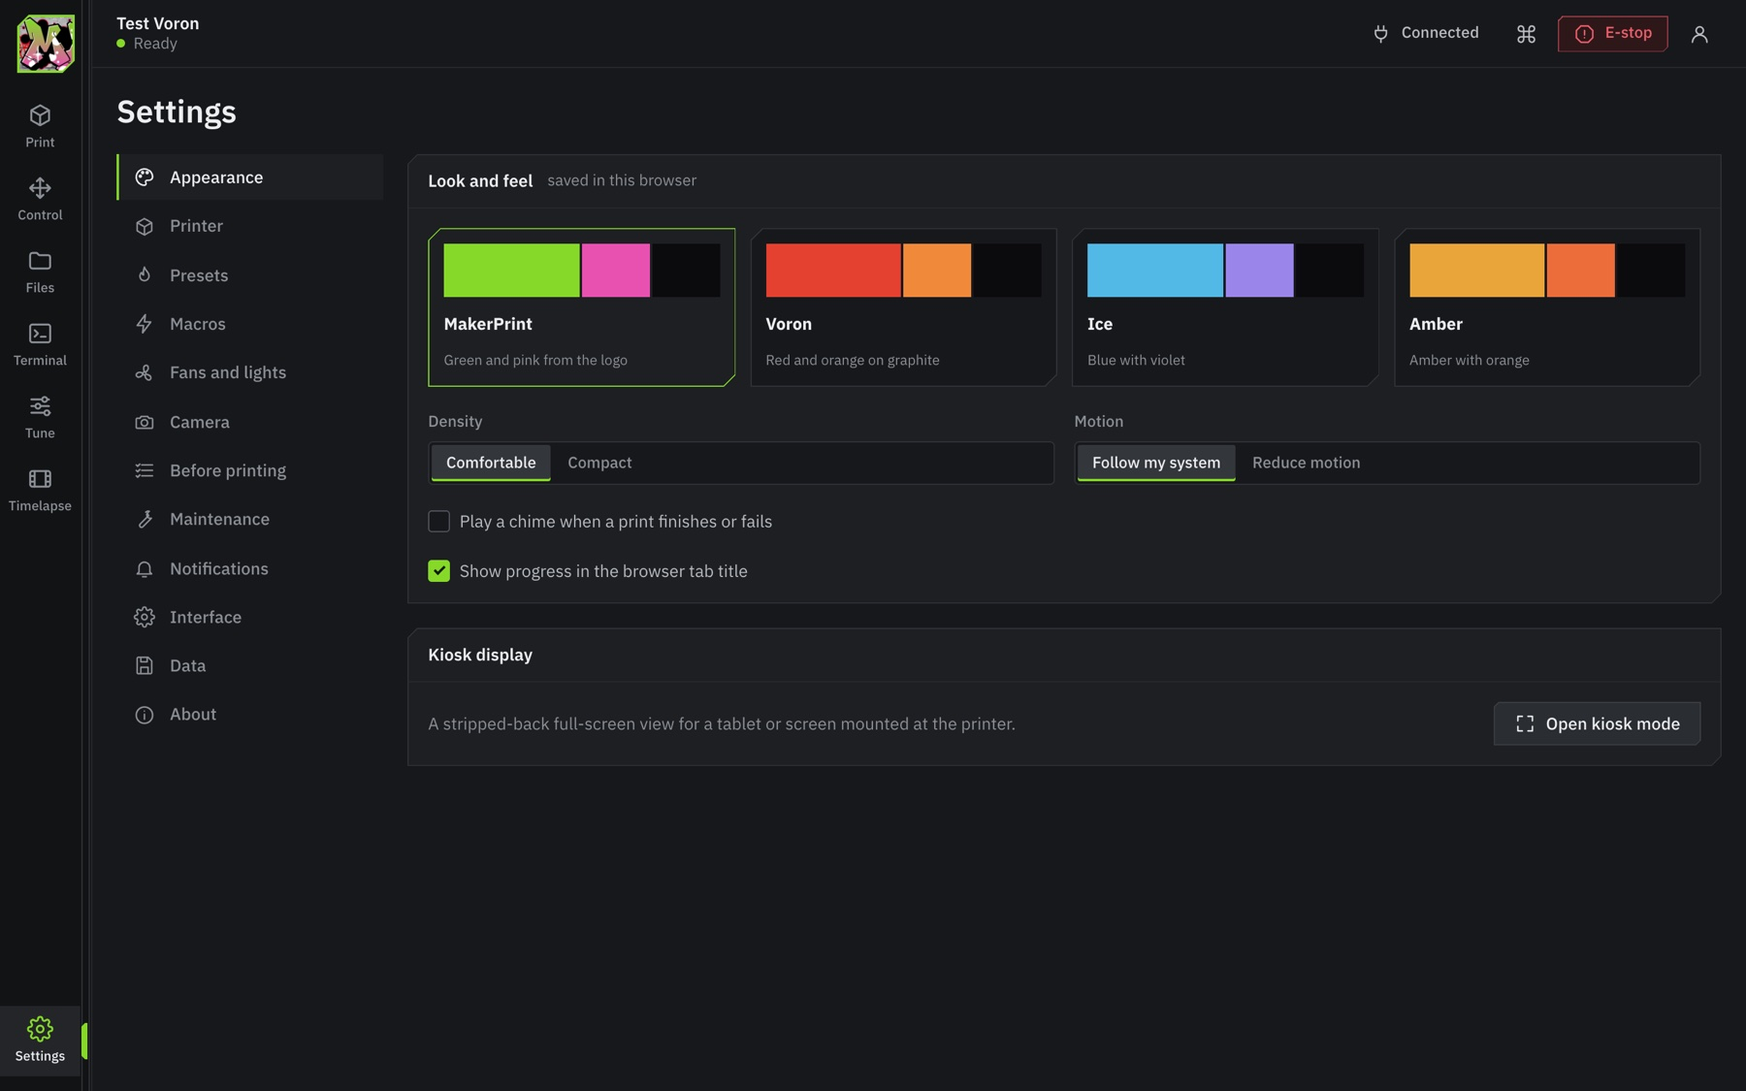
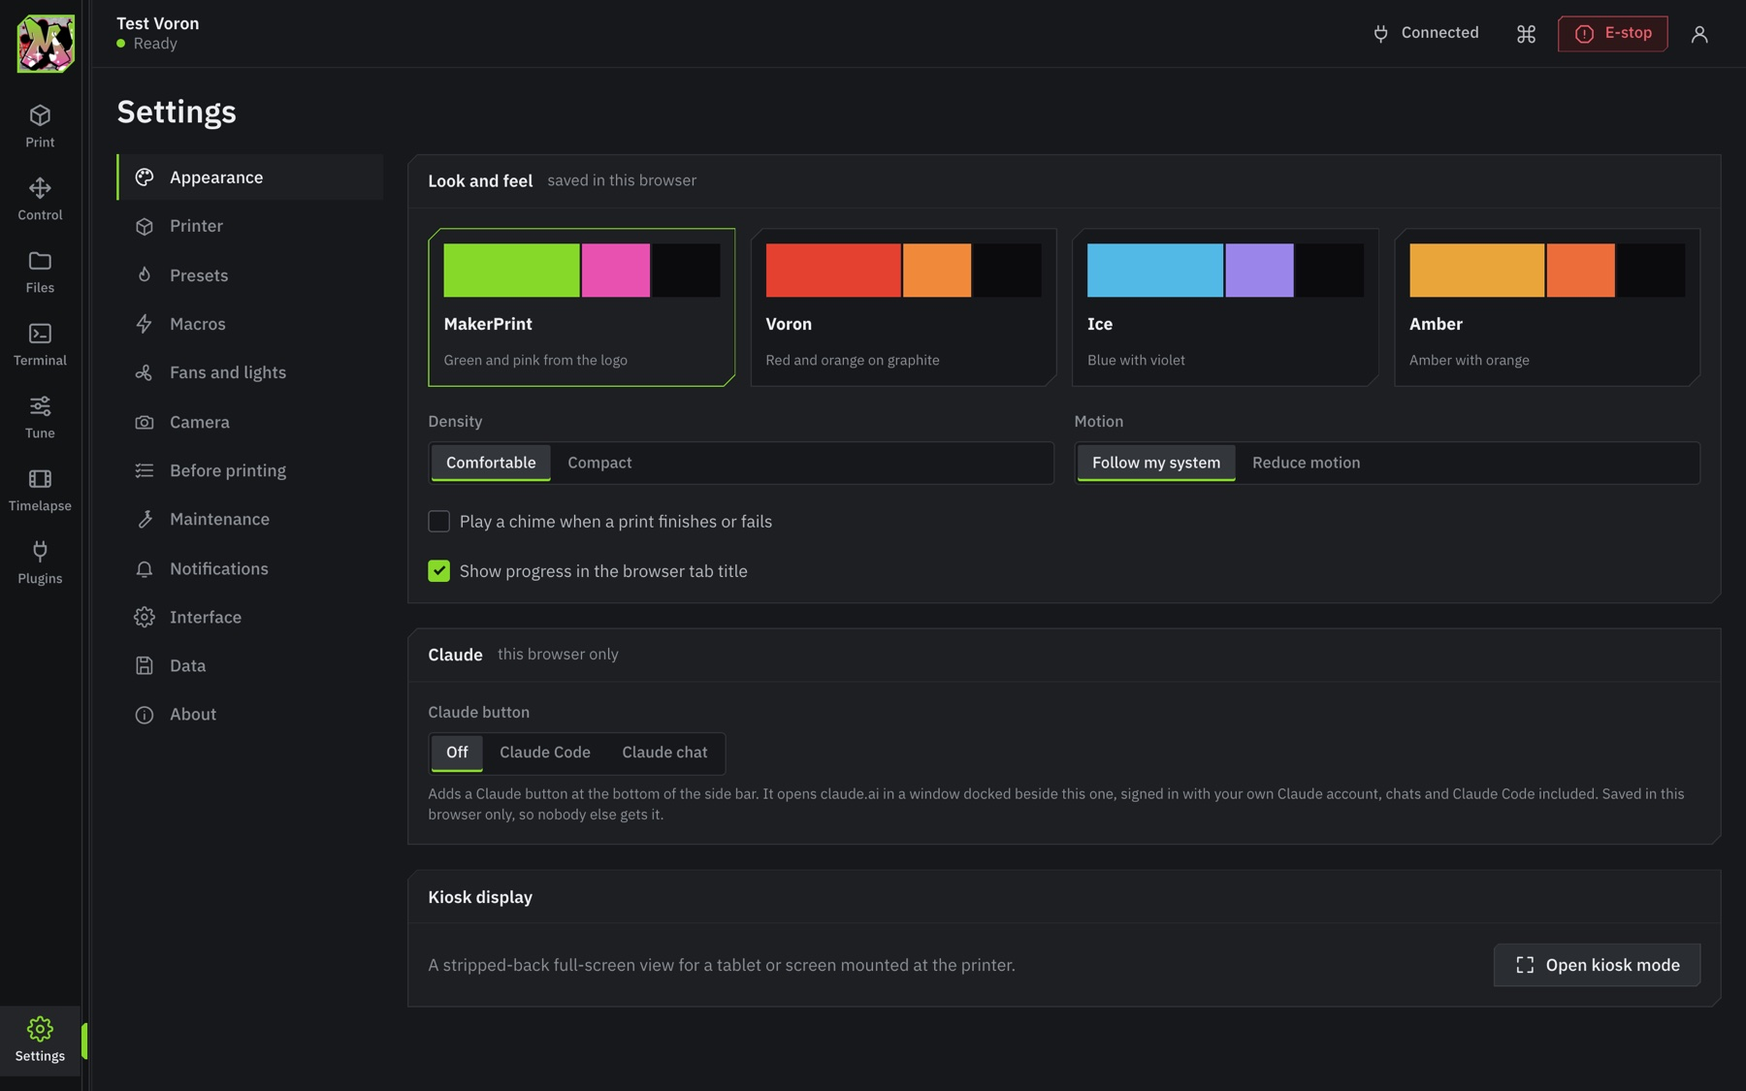
0.3.0: Plugins screen, optional Claude button
Plugins
- A Plugins screen with OctoPrint's Plugin Manager, Software Update, all of
  OctoPrint's settings, and every installed plugin's own tabs, sidebar
  panels and settings pages
- They run in OctoPrint's classic page inside a same-origin frame, with only
  the chosen part shown, so third-party plugins work exactly as they do in
  the classic interface (dialogs, re-authentication and all)
- Panels and tabs a plugin is currently hiding are left out of the list

Claude button
- Settings > Appearance > Claude button: off by default and stored per
  browser. When on, a button above Settings opens claude.ai (Claude Code or
  chat) in a window docked to the right, using the browser's own sign-in.
  claude.ai forbids framing, so it can't be shown inside the page itself.

diff --git a/octoprint_makerforge/static/js/core/classic-frame.js b/octoprint_makerforge/static/js/core/classic-frame.js
@@ -1,0 +1,134 @@
+// OctoPrint's classic page, running in a frame, so every plugin's own screens work exactly as
+// they do there: same code, same settings, same dialogs. MakerPrint picks the part to show
+// (a plugin's tab, its sidebar panel or a settings page) and hides the rest with a stylesheet
+// it adds to the frame. The frame is same-origin, so this needs no cooperation from plugins.
+import { BASE } from "mf/core/api.js";
+
+// Core tabs MakerPrint already has its own screens for. Everything else is a plugin's.
+const CORE_TABS = new Set(["temp", "control", "term", "timelapse"]);
+
+const CROP_CSS = `
+html.mf-embed body { padding: 0 !important; }
+html.mf-embed #page-container-loading { display: none !important; }
+html.mf-embed:not([data-mf-mode="classic"]) #navbar,
+html.mf-embed:not([data-mf-mode="classic"]) .footer { display: none !important; }
+html.mf-embed:not([data-mf-mode="classic"]) .octoprint-container { width: auto !important; max-width: none !important; margin: 0 !important; padding: 16px !important; }
+html.mf-embed:not([data-mf-mode="classic"]) .octoprint-container > .row { margin-left: 0 !important; }
+
+/* a plugin's tab, on its own */
+html.mf-embed[data-mf-mode="tab"] #sidebar,
+html.mf-embed[data-mf-mode="tab"] #tabs { display: none !important; }
+html.mf-embed[data-mf-mode="tab"] .octoprint-container .tabbable { width: 100% !important; margin-left: 0 !important; float: none !important; }
+html.mf-embed[data-mf-mode="tab"] .tab-content { border: 0 !important; padding: 0 !important; }
+
+/* one sidebar panel, full width and open */
+html.mf-embed[data-mf-mode="panel"] .octoprint-container .tabbable { display: none !important; }
+html.mf-embed[data-mf-mode="panel"] #sidebar { width: 100% !important; margin-left: 0 !important; float: none !important; }
+html.mf-embed[data-mf-mode="panel"] #sidebar > .accordion-group:not(.mf-show) { display: none !important; }
+
+/* settings: the dialog becomes the page */
+html.mf-embed[data-mf-mode="settings"] .octoprint-container { visibility: hidden !important; }
+html.mf-embed[data-mf-mode="settings"] #settings_dialog { top: 0 !important; left: 0 !important; right: 0 !important; bottom: 0 !important; width: auto !important; max-width: none !important; margin: 0 !important; border: 0 !important; border-radius: 0 !important; }
+html.mf-embed[data-mf-mode="settings"] #settings_dialog .modal-body { max-height: none !important; height: calc(100vh - 118px) !important; }
+html.mf-embed[data-mf-mode="settings"] #settings_dialog .modal-header .close,
+html.mf-embed[data-mf-mode="settings"] #settings_dialog .modal-footer [data-dismiss="modal"] { display: none !important; }
+html.mf-embed[data-mf-mode="settings"] .modal-backdrop { opacity: 1 !important; }
+/* one plugin's settings: MakerPrint lists them, so the dialog's own menu would repeat it */
+html.mf-embed[data-mf-mode="settings"]:not([data-mf-full]) #settings_dialog_menu { display: none !important; }
+html.mf-embed[data-mf-mode="settings"]:not([data-mf-full]) #settings_dialog_content { width: 100% !important; margin-left: 0 !important; }
+`;
+
+const textOf = (el) => (el?.textContent || "").replace(/\s+/g, " ").trim();
+// plugins hide their own tabs and panels when they have nothing to show (a firmware warning
+// that hasn't happened, say), and an empty page helps nobody
+const shown = (el, win) => !!el && win.getComputedStyle(el).display !== "none";
+
+/**
+ * Load the classic page into `host`. Resolves {win, doc} once OctoPrint's classic interface has
+ * finished starting, or rejects after `timeoutMs`.
+ */
+export function createClassicFrame(host, { timeoutMs = 90000 } = {}) {
+  const frame = document.createElement("iframe");
+  frame.className = "classic-frame";
+  frame.title = "OctoPrint plugin page";
+  frame.src = `${BASE}/?classic&mfembed=1`;
+  host.append(frame);
+
+  let win = null, doc = null, pane = null, alive = true;
+
+  const ready = new Promise((resolve, reject) => {
+    const t0 = Date.now();
+    const poll = () => {
+      if (!alive) return;
+      try {
+        win = frame.contentWindow;
+        doc = frame.contentDocument;
+        if (win?.OctoPrint?.coreui?.startedUp && doc?.head) {
+          prepare();
+          resolve({ win, doc });
+          return;
+        }
+      } catch (e) { return reject(e); }
+      if (Date.now() - t0 > timeoutMs) return reject(new Error("OctoPrint's classic page didn't finish starting."));
+      setTimeout(poll, 300);
+    };
+    frame.addEventListener("load", poll);
+  });
+
+  function prepare() {
+    if (doc.getElementById("mf-embed-css")) return;
+    const style = doc.createElement("style");
+    style.id = "mf-embed-css";
+    style.textContent = CROP_CSS;
+    doc.head.append(style);
+    doc.documentElement.classList.add("mf-embed");
+    // In "settings" mode the dialog is the page: saving closes it, so open it again
+    win.$?.("#settings_dialog").on("hidden", () => {
+      if (alive && doc.documentElement.dataset.mfMode === "settings" && pane) setTimeout(() => openSettings(pane), 250);
+    });
+  }
+
+  function settingsVM() { return win.OctoPrint.coreui.viewmodels.settingsViewModel; }
+  function openSettings(id) { try { settingsVM().show(id); } catch { /* not allowed for this user */ } }
+
+  /** What plugins added to the classic page: their tabs, sidebar panels and settings pages. */
+  function parts() {
+    const q = (s) => Array.from(doc.querySelectorAll(s));
+    const tabs = q("#tabs a[href^='#']")
+      .map((a) => ({ kind: "tab", id: a.getAttribute("href").slice(1), name: textOf(a) }))
+      .filter((t) => t.id && t.name && !CORE_TABS.has(t.id) && doc.getElementById(t.id) && shown(doc.querySelector(`#tabs a[href="#${t.id}"]`)?.closest("li"), win));
+    const panels = q("#sidebar > .accordion-group[id^='sidebar_plugin_']")
+      .filter((g) => shown(g, win))
+      .map((g) => ({ kind: "panel", id: g.id, name: textOf(g.querySelector(".accordion-heading")) || g.id.replace(/^sidebar_plugin_|_wrapper$/g, "") }));
+    const settings = q("#settings_dialog_menu a[href^='#settings_plugin_']")
+      .map((a) => ({ kind: "settings", id: a.getAttribute("href").slice(1), name: textOf(a) }))
+      .filter((s) => s.name);
+    const firstSettings = doc.querySelector("#settings_dialog_menu a[href^='#settings_']")?.getAttribute("href")?.slice(1) || null;
+    return { tabs, panels, settings, firstSettings };
+  }
+
+  /** Show one part: {kind: "tab"|"panel"|"settings"|"classic", id}. */
+  function show(part) {
+    const html = doc.documentElement;
+    const wasSettings = html.dataset.mfMode === "settings";
+    html.dataset.mfMode = part.kind;
+    if (part.full) html.dataset.mfFull = "1"; else delete html.dataset.mfFull;
+    pane = part.kind === "settings" ? part.id : null;
+    if (wasSettings && part.kind !== "settings") win.$("#settings_dialog").modal("hide");
+    if (part.kind === "tab") win.$(`#tabs a[href="#${part.id}"]`).tab("show");
+    if (part.kind === "panel") {
+      for (const g of doc.querySelectorAll("#sidebar > .accordion-group")) g.classList.toggle("mf-show", g.id === part.id);
+      win.$(`#${part.id} .accordion-body`).collapse("show");
+    }
+    if (part.kind === "settings") openSettings(part.id);
+    win.scrollTo(0, 0);
+  }
+
+  return {
+    frame,
+    ready,
+    parts,
+    show,
+    destroy() { alive = false; frame.remove(); },
+  };
+}

diff --git a/octoprint_makerforge/static/js/views/plugins.js b/octoprint_makerforge/static/js/views/plugins.js
@@ -1,0 +1,84 @@
+// Plugins: OctoPrint's Plugin Manager, and every plugin's own tabs, panels and settings, shown
+// by OctoPrint's classic page in a frame so they all work exactly as they do there.
+import { html, raw, refs, esc } from "mf/core/dom.js";
+import { icon } from "mf/ui/icons.js";
+import { boot } from "mf/core/api.js";
+import { can } from "mf/core/auth.js";
+import * as router from "mf/core/router.js";
+import { createClassicFrame } from "mf/core/classic-frame.js";
+
+const MANAGER = { kind: "settings", id: "settings_plugin_pluginmanager", name: "Plugin Manager" };
+const UPDATES = { kind: "settings", id: "settings_plugin_softwareupdate", name: "Software Update" };
+const EVERYTHING = { kind: "classic", id: "all", name: "Classic OctoPrint" };
+
+const key = (p) => `${p.kind}/${p.id}`;
+
+export default {
+  id: "plugins",
+  mount(el, { route }) {
+    const view = html`
+      <div>
+        <div class="view-head"><h1>Plugins</h1></div>
+        <div class="set-layout plugins-layout">
+          <nav class="set-nav" data-ref="nav" aria-label="Plugin pages"><span class="muted plug-wait">Loading plugin pages…</span></nav>
+          <section class="panel plug-frame-panel">
+            <div class="plug-frame" data-ref="host">
+              <div class="plug-state" data-ref="state">${raw(icon("refresh", "i spin"))}<span>Starting OctoPrint's plugin pages. On a Raspberry Pi this takes a few seconds.</span></div>
+            </div>
+          </section>
+        </div>
+      </div>`;
+    const r = refs(view);
+    el.append(view);
+
+    if (!can("settings_read") && !can("admin")) {
+      r.state.innerHTML = `${icon("lock")}<span>Your account can't see OctoPrint's plugin pages.</span>`;
+      r.nav.replaceChildren();
+      return {};
+    }
+
+    const cf = createClassicFrame(r.host);
+    let items = [];
+    let current = null;
+
+    function pick(rest) {
+      const wanted = rest?.length ? `${rest[0]}/${rest.slice(1).join("/")}` : key(MANAGER);
+      return items.find((p) => key(p) === wanted) || items.find((p) => key(p) === key(MANAGER)) || items[0];
+    }
+
+    function select(part) {
+      if (!part) return;
+      current = part;
+      r.nav.querySelectorAll("a[data-key]").forEach((a) => (a.dataset.key === key(part) ? a.setAttribute("aria-current", "page") : a.removeAttribute("aria-current")));
+      cf.show(part);
+      window.scrollTo(0, 0);   // the frame should stay in view whatever was clicked
+    }
+
+    cf.ready.then(() => {
+      const found = cf.parts();
+      const hasUpdates = found.settings.some((s) => s.id === UPDATES.id);
+      const pluginSettings = found.settings.filter((s) => s.id !== MANAGER.id && s.id !== UPDATES.id && s.id !== "settings_plugin_makerforge");
+      const groups = [
+        ["Manage", [MANAGER, ...(hasUpdates ? [UPDATES] : []), ...(found.firstSettings ? [{ kind: "settings", id: found.firstSettings, name: "All OctoPrint settings", full: true }] : [])]],
+        ["Plugin pages", found.tabs],
+        ["Plugin panels", found.panels],
+        ["Plugin settings", pluginSettings],
+        ["Everything", [EVERYTHING]],
+      ].filter(([, list]) => list.length);
+      items = groups.flatMap(([, list]) => list);
+      r.nav.innerHTML = groups.map(([title, list]) => `<div class="plug-group">${esc(title)}</div>` +
+        list.map((p) => `<a href="${router.href("plugins", [p.kind, p.id])}" data-key="${esc(key(p))}">${esc(p.name)}</a>`).join("")).join("");
+      r.state.remove();
+      cf.frame.classList.add("is-ready");
+      select(pick(route.rest));
+    }).catch((e) => {
+      r.state.innerHTML = `${icon("alert")}<span>${esc(e.message || "OctoPrint's classic page didn't load.")} <a class="link" href="${esc(boot.classicUrl)}" target="_blank" rel="noopener">Open it directly</a></span>`;
+      r.nav.replaceChildren();
+    });
+
+    return {
+      onRoute(rt) { if (items.length) select(pick(rt.rest)); },
+      unmount() { cf.destroy(); },
+    };
+  },
+};

diff --git a/octoprint_makerforge/static/js/ui/shell.js b/octoprint_makerforge/static/js/ui/shell.js
@@ -13,6 +13,7 @@ import { signOut, can } from "mf/core/auth.js";
 import { config } from "mf/core/config.js";
 import { duration, num } from "mf/core/format.js";
 import { openConnect } from "mf/ui/connect.js";
+import { openClaude, claudeEnabled } from "mf/ui/claude.js";
 
 export const NAV = [
   { id: "print", label: "Print", icon: "cube" },
@@ -21,6 +22,7 @@ export const NAV = [
   { id: "terminal", label: "Terminal", icon: "terminal" },
   { id: "tune", label: "Tune", icon: "tune" },
   { id: "timelapse", label: "Timelapse", icon: "film" },
+  { id: "plugins", label: "Plugins", icon: "plugin" },
 ];
 const MOBILE_MAIN = ["print", "control", "files", "terminal"];
 
@@ -39,6 +41,7 @@ export function mountShell(root) {
           ${raw(NAV.map(linkHtml).join(""))}
         </nav>
         <div class="rail-foot">
+          <button class="rail-link rail-claude" data-ref="claude" aria-label="Open Claude" data-tip="Open Claude in a side window" hidden>${raw(icon("spark"))}<span>Claude</span></button>
           <a class="rail-link" href="#/settings" data-id="settings" aria-label="Settings">${raw(icon("settings"))}<span>Settings</span></a>
         </div>
       </aside>
@@ -179,12 +182,16 @@ export function mountShell(root) {
   r.netact.addEventListener("click", () => (store.get("klipper.detected") ? actions.firmwareRestart().catch(() => {}) : router.go("terminal")));
   r.user.addEventListener("click", () => userMenu(r.user));
   r.more.addEventListener("click", () => moreMenu(r.more));
+  r.claude.addEventListener("click", () => openClaude(prefs.get("claude")));
+  const syncClaude = () => { r.claude.hidden = !claudeEnabled(prefs.get("claude")); };
+  const offPrefs = prefs.on((k) => { if (k === "claude" || k === "*") syncClaude(); });
+  syncClaude();
 
   return {
     stage: el.querySelector("#stage"),
     el,
     markActive,
-    dispose() { offRoute(); offs.forEach((o) => o()); clearInterval(tick); },
+    dispose() { offRoute(); offs.forEach((o) => o()); offPrefs(); clearInterval(tick); },
   };
 }
 
@@ -221,6 +228,7 @@ function moreMenu(anchor) {
   openMenu(anchor, [
     ...NAV.filter((n) => !MOBILE_MAIN.includes(n.id)).map((n) => ({ label: n.label, icon: n.icon, onClick: () => router.go(n.id) })),
     { label: "Settings", icon: "settings", onClick: () => router.go("settings") },
+    claudeEnabled(prefs.get("claude")) && { label: "Claude", icon: "spark", onClick: () => openClaude(prefs.get("claude")) },
     { sep: true },
     { label: "Commands", icon: "command", onClick: () => bus.emit("palette:open") },
     { label: "Appearance", icon: "palette", onClick: () => userMenu(anchor) },

diff --git a/octoprint_makerforge/static/css/views.css b/octoprint_makerforge/static/css/views.css
@@ -554,3 +554,22 @@
 }
 
 .shell[data-kiosk] .netbar { display: none; }
+
+/* ~~ plugins: OctoPrint's classic page in a frame ~~~~~~~~~~~~~~~~~~~~~~~~~~~~~~~~~~~~~~~~ */
+.plugins-layout { align-items: start; }
+.plug-frame-panel { min-width: 0; }
+.plug-frame { position: relative; height: calc(100dvh - var(--topbar-h) - var(--safe-t) - 128px); min-height: 480px; }
+.classic-frame { display: block; width: 100%; height: 100%; border: 0; background: var(--bg-1); opacity: 0; transition: opacity var(--dur-2); }
+.classic-frame.is-ready { opacity: 1; }
+.plug-state { position: absolute; inset: 0; display: grid; place-content: center; justify-items: center; gap: var(--s-3); padding: var(--s-6); text-align: center; color: var(--tx-3); }
+.plug-state span { max-width: 46ch; }
+.plug-group { padding: var(--s-4) var(--s-3) var(--s-1); color: var(--tx-3); font-size: var(--fs-xs); }
+.plug-group:first-child { padding-top: 0; }
+.plug-wait { padding: var(--s-2) var(--s-3); }
+@media (max-width: 899px) {
+  .plug-frame { height: calc(100dvh - var(--topbar-h) - var(--tabbar-h) - 180px - var(--safe-b)); min-height: 420px; }
+  .plug-group { display: none; }
+}
+/* the list scrolls by itself, so the page never has to and the frame stays put */
+.plugins-layout .set-nav { max-height: calc(100dvh - var(--topbar-h) - var(--safe-t) - 128px); overflow-y: auto; }
+@media (max-width: 899px) { .plugins-layout .set-nav { max-height: none; overflow-y: visible; } }

diff --git a/octoprint_makerforge/static/js/views/settings.js b/octoprint_makerforge/static/js/views/settings.js
@@ -125,6 +125,9 @@ const BUILDERS = {
     const fg = host.querySelector(".form-grid");
     fg.children[0].append(seg([["comfortable", "Comfortable"], ["compact", "Compact"]], prefs.get("density"), (v) => prefs.set("density", v)));
     fg.children[1].append(seg([["auto", "Follow my system"], ["reduced", "Reduce motion"]], prefs.get("motion"), (v) => prefs.set("motion", v)));
+    const claudeRow = html`<div class="field"><label>Claude button</label><div data-ref="seg"></div><div class="hint">Adds a Claude button at the bottom of the side bar. It opens claude.ai in a window docked beside this one, signed in with your own Claude account, chats and Claude Code included. Saved in this browser only, so nobody else gets it.</div></div>`;
+    claudeRow.querySelector("[data-ref=seg]").append(seg([["off", "Off"], ["code", "Claude Code"], ["chat", "Claude chat"]], prefs.get("claude"), (v) => prefs.set("claude", v)));
+    section(host, "Claude", "this browser only", claudeRow);
     const kiosk = html`<div class="row wrap"><span class="grow muted">A stripped-back full-screen view for a tablet or screen mounted at the printer.</span><button class="btn">${raw(icon("maximize"))}Open kiosk mode</button></div>`;
     kiosk.querySelector("button").addEventListener("click", () => router.go("kiosk"));
     section(host, "Kiosk display", "", kiosk);

diff --git a/octoprint_makerforge/static/js/ui/claude.js b/octoprint_makerforge/static/js/ui/claude.js
@@ -1,0 +1,19 @@
+// The Claude button: opens claude.ai in a window docked to the right edge of the screen.
+// claude.ai refuses to be shown inside another site's page (X-Frame-Options), so a side window
+// is as close to a built-in panel as a browser allows. It is the full claude.ai, with this
+// browser's own sign-in, chats and Claude Code sessions. Off unless turned on in Settings,
+// and the choice is kept in this browser only.
+const URLS = { code: "https://claude.ai/code", chat: "https://claude.ai/new" };
+
+export function openClaude(kind = "code") {
+  const url = URLS[kind] || URLS.code;
+  const sw = screen.availWidth || window.innerWidth;
+  const sh = screen.availHeight || window.innerHeight;
+  const w = Math.round(Math.min(640, Math.max(420, sw * 0.34)));
+  const left = (screen.availLeft || 0) + sw - w;
+  const top = screen.availTop || 0;
+  // phones and tablets ignore the size and open a tab, which is the right thing there
+  window.open(url, "makerprint-claude", `popup=yes,noopener,width=${w},height=${sh},left=${left},top=${top}`);
+}
+
+export const claudeEnabled = (value) => value === "code" || value === "chat";

diff --git a/octoprint_makerforge/static/js/ui/palette.js b/octoprint_makerforge/static/js/ui/palette.js
@@ -62,6 +62,7 @@ async function build() {
     add(`Macros: ${m.cat || "Other"}`, m.name, "bolt", () => runMacro(m), { ic: null, rawIcon: macroIcon(m), disabled: !a.ok, hint: a.ok ? m.gcode.split("\n")[0] : a.reason, key: `${m.name} ${m.gcode}` });
   }
   for (const t of THEMES) add("Theme", `${t.name} theme`, "palette", () => prefs.set("theme", t.id));
+  add("Plugins", "Plugin Manager", "plugin", () => router.go("plugins", ["settings", "settings_plugin_pluginmanager"]));
   add("Account", "Open the classic OctoPrint UI", "external", () => { document.cookie = "mf_ui=classic; path=/; max-age=31536000; SameSite=Lax"; location.href = boot.classicUrl; });
   if (s.auth.loggedIn) add("Account", "Sign out", "logout", () => signOut());
 

diff --git a/octoprint_makerforge/static/js/ui/icons.js b/octoprint_makerforge/static/js/ui/icons.js
@@ -105,6 +105,7 @@ const S = {
   "list-checks": '<path d="M9 6h12M9 12h12M9 18h12"/><path d="M3 6l1.5 1.5L7 5M3 12l1.5 1.5L7 11M3 18l1.5 1.5L7 17"/>',
   queue: '<rect x="3" y="4" width="14" height="5" rx="1"/><rect x="3" y="11" width="14" height="5" rx="1"/><path d="M3 19h9M19 12v8M16 17l3 3 3-3"/>',
   plugin: '<path d="M9 3v4M15 3v4M7 7h10v4a5 5 0 01-10 0V7z"/><path d="M12 16v5"/>',
+  spark: '<path d="M12 3v5.2M12 15.8V21M3 12h5.2M15.8 12H21M5.6 5.6l3.7 3.7M14.7 14.7l3.7 3.7M18.4 5.6l-3.7 3.7M9.3 14.7l-3.7 3.7"/>',
 
   // ~~ printer specific ~~
   nozzle: '<path d="M8 3h8v5H8z"/><path d="M9 8v3l3 5 3-5V8"/><path d="M12 16v2.5"/><path d="M9.5 21h5"/>',

diff --git a/octoprint_makerforge/static/css/shell.css b/octoprint_makerforge/static/css/shell.css
@@ -307,3 +307,6 @@
 .login-brand { display: flex; align-items: center; gap: var(--s-3); padding: var(--s-6) var(--s-6) 0; }
 .login-brand img { width: 56px; height: 56px; clip-path: polygon(8px 0, 100% 0, 100% calc(100% - 8px), calc(100% - 8px) 100%, 0 100%, 0 8px); }
 .login-brand span { font-family: var(--font-display); font-size: var(--fs-2xl); font-weight: 600; }
+/* the Claude button sits quietly above Settings until it's wanted */
+.rail-claude { color: var(--tx-4); }
+.rail-claude:hover { color: var(--tx-1); }

diff --git a/octoprint_makerforge/static/js/app.js b/octoprint_makerforge/static/js/app.js
@@ -31,6 +31,7 @@ const ROUTES = [
   { id: "tune", title: "Tune", load: () => import("mf/views/tune.js") },
   { id: "timelapse", title: "Timelapse", load: () => import("mf/views/timelapse.js") },
   { id: "settings", title: "Settings", load: () => import("mf/views/settings.js") },
+  { id: "plugins", title: "Plugins", load: () => import("mf/views/plugins.js") },
   { id: "kiosk", title: "Kiosk", load: () => import("mf/views/kiosk.js") },
 ];
 

diff --git a/octoprint_makerforge/static/js/core/prefs.js b/octoprint_makerforge/static/js/core/prefs.js
@@ -23,6 +23,7 @@ const DEFAULTS = {
   chartHidden: [],
   reduceHeavy: false,      // skip the 3D previews on very slow devices
   kioskDim: true,
+  claude: "off",           // off | code | chat: a Claude button in the rail, this browser only
 };
 
 let cache = null;

diff --git a/octoprint_makerforge/_version.py b/octoprint_makerforge/_version.py
@@ -1,2 +1,2 @@
 # coding=utf-8
-__version__ = "0.2.1"
+__version__ = "0.3.0"
